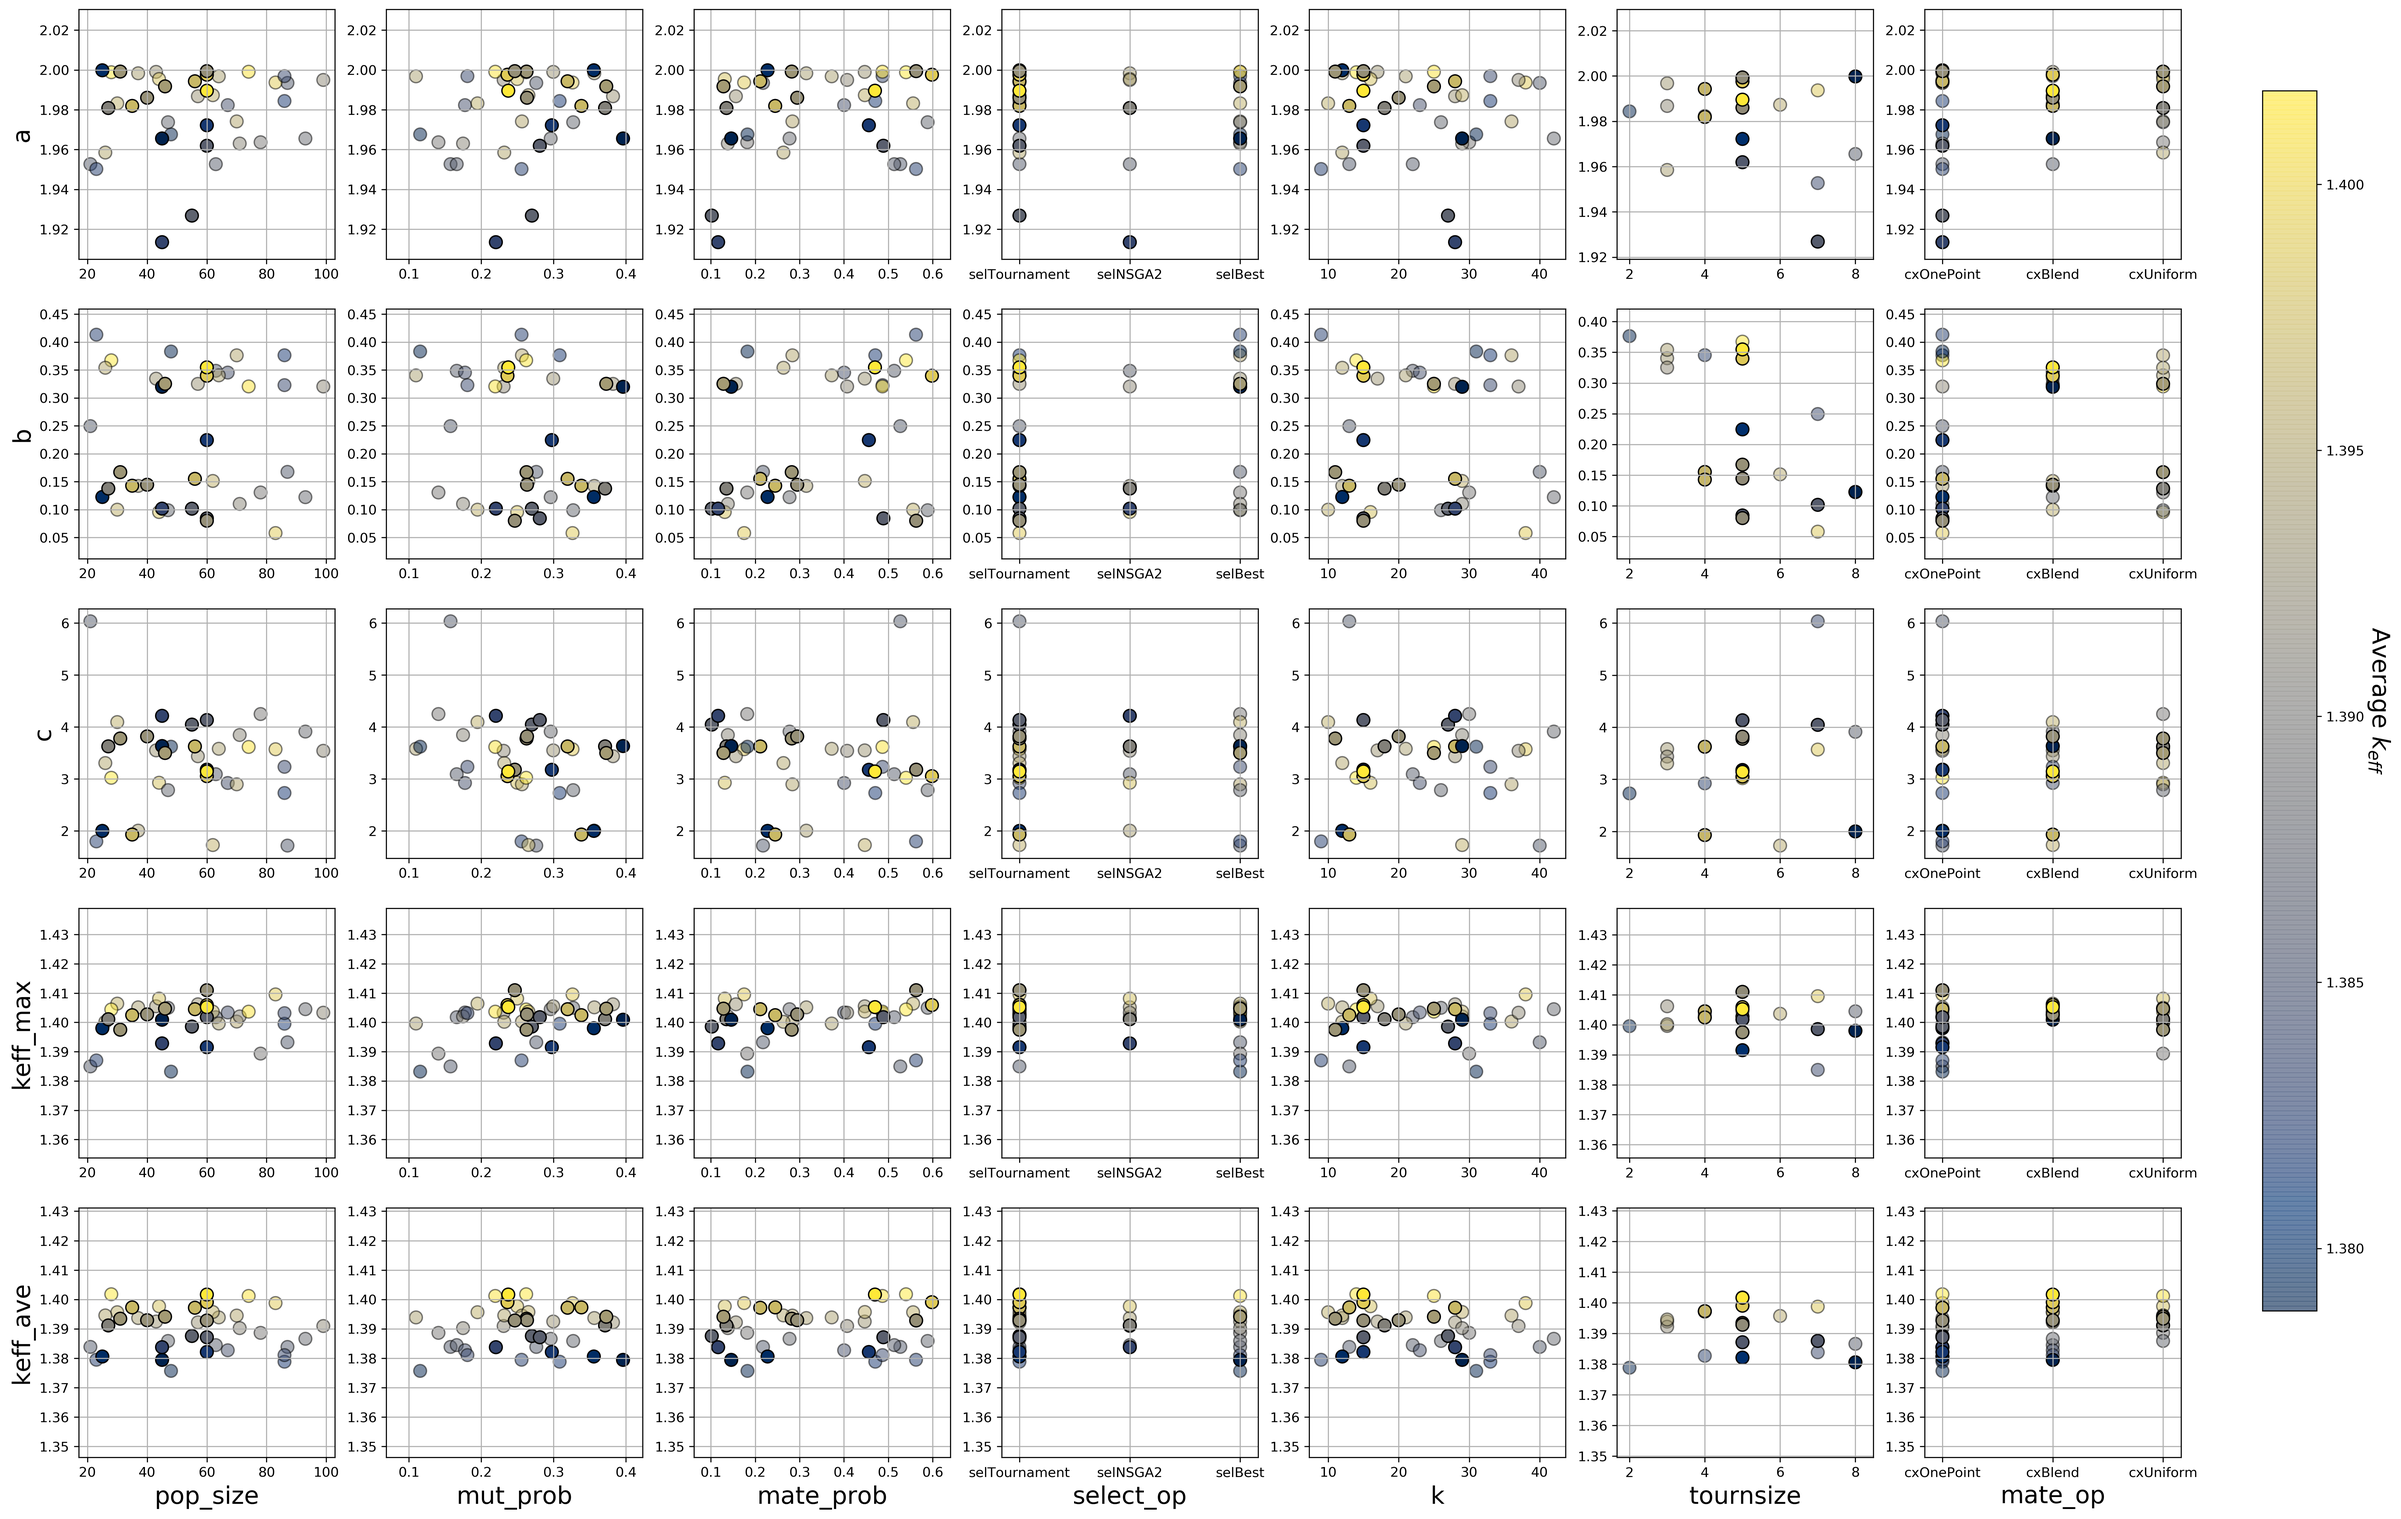
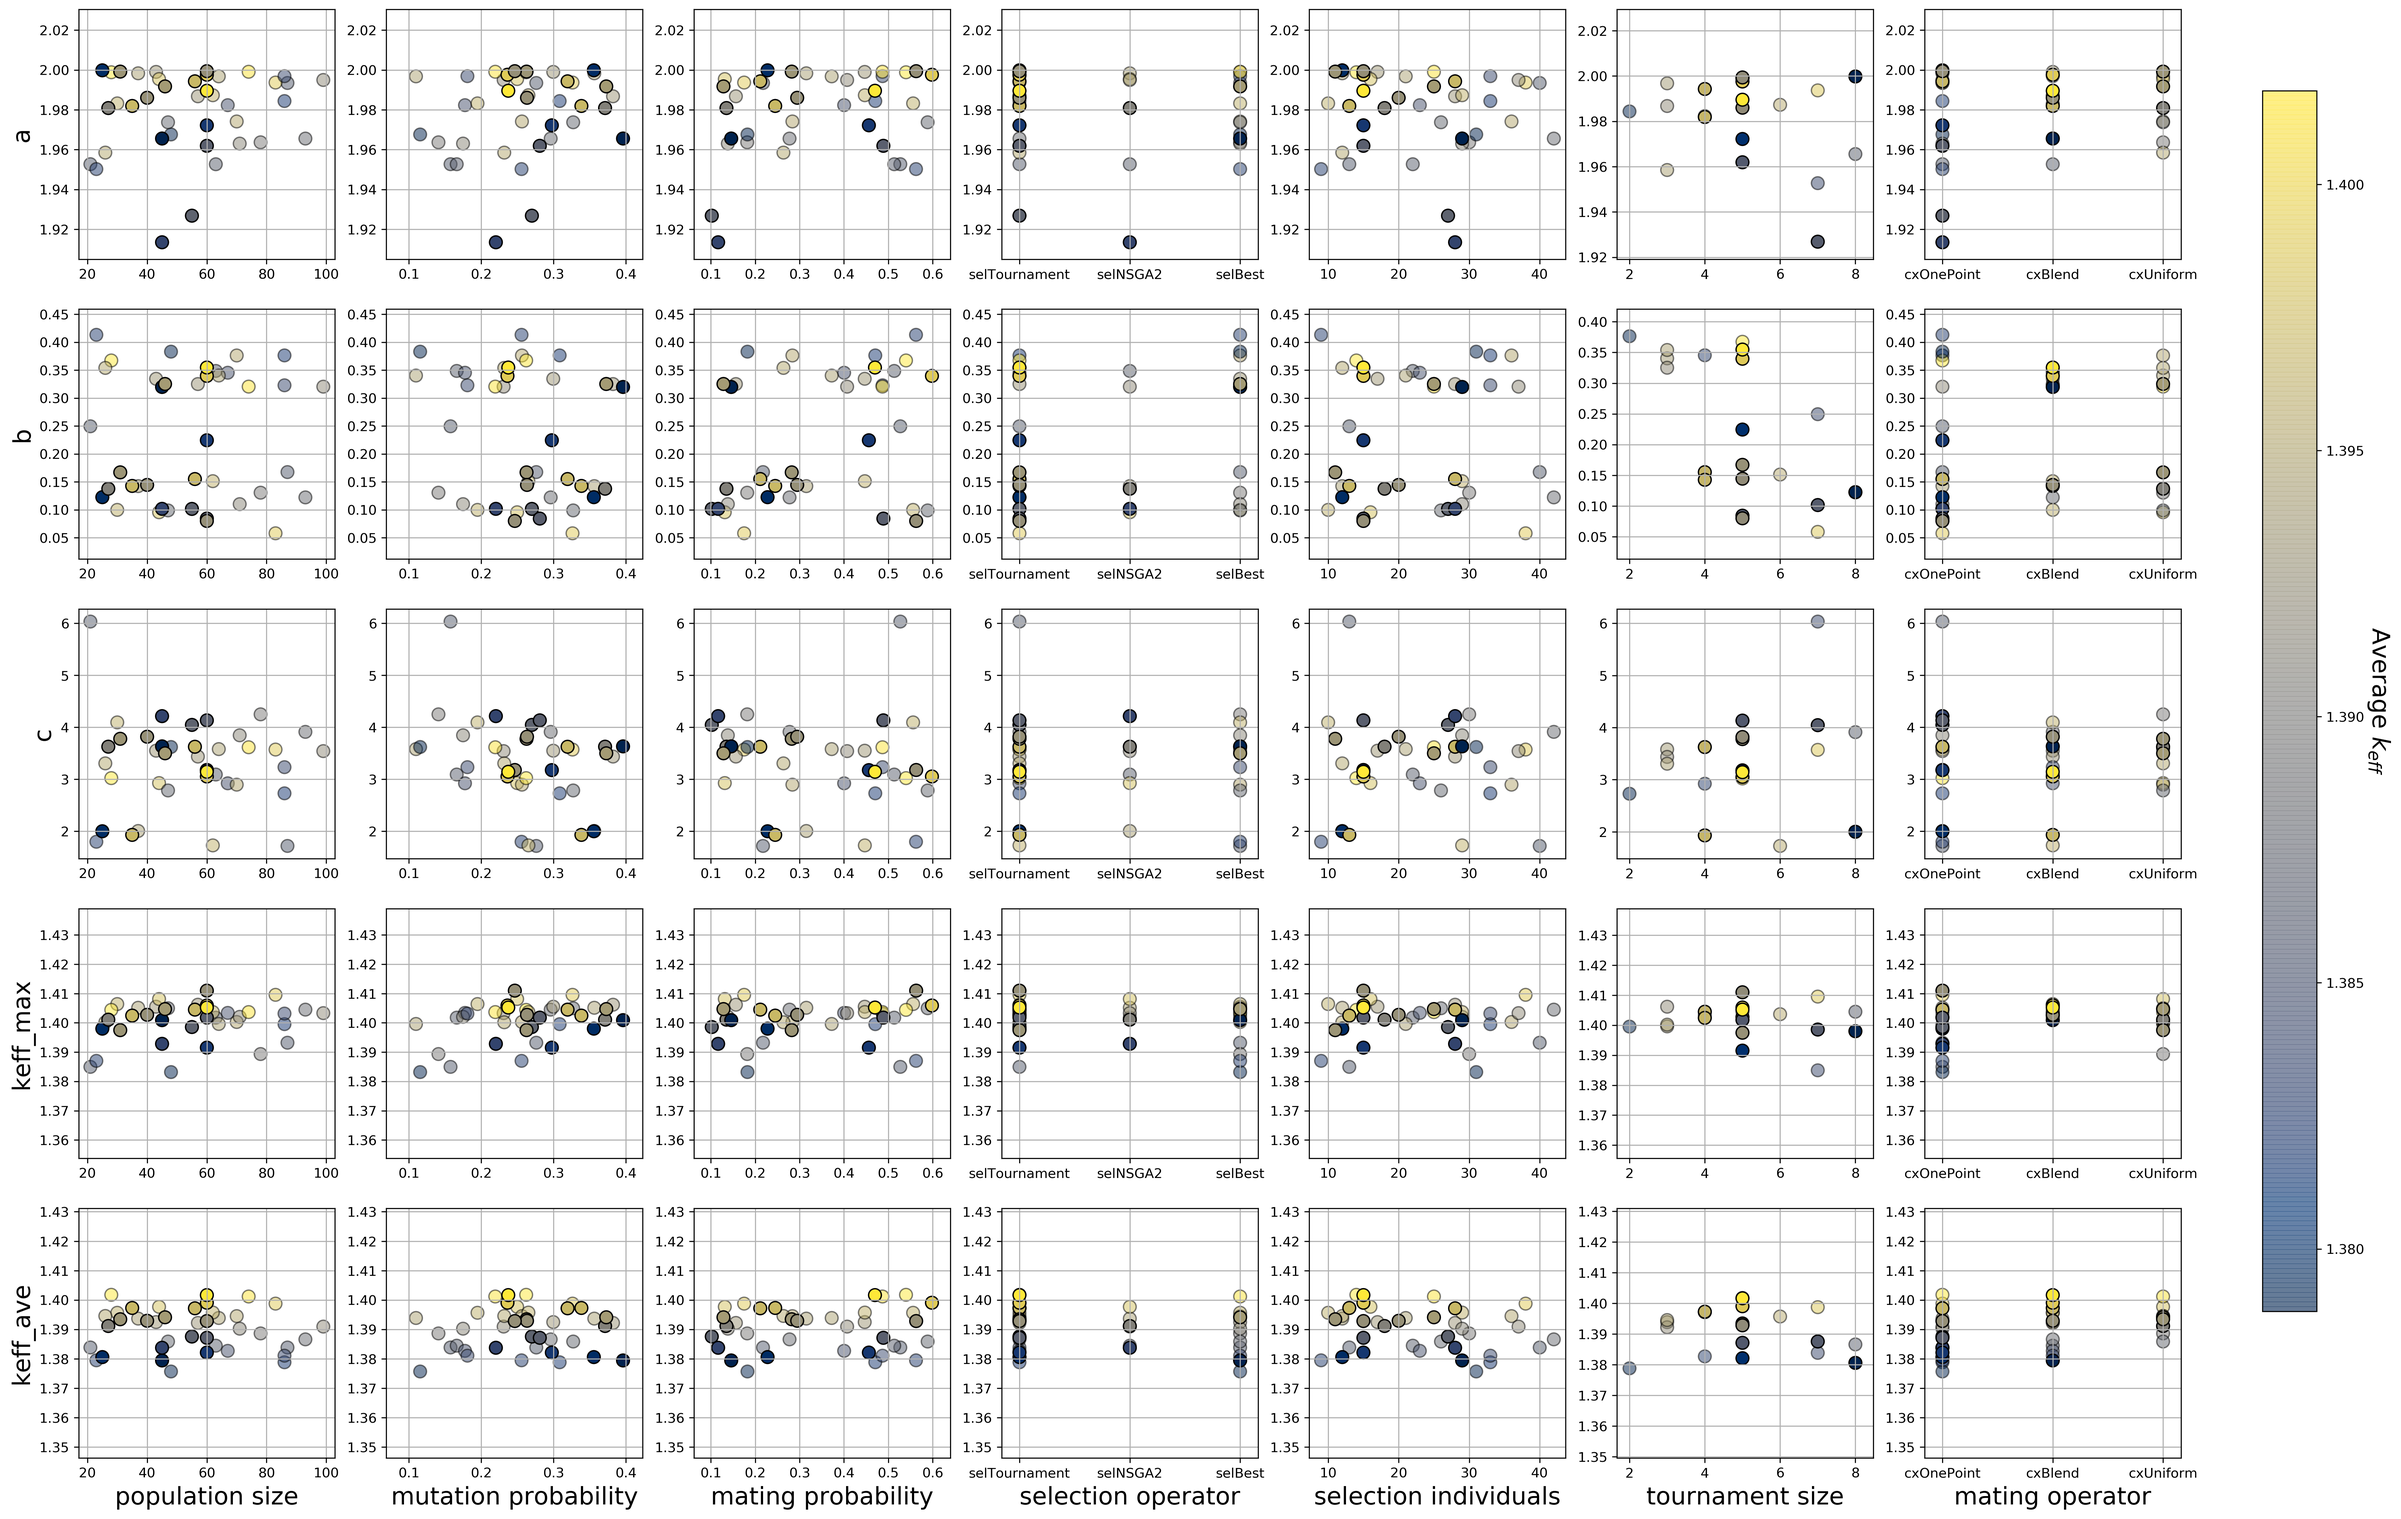
so far

diff --git a/docs/realm-demo.tex b/docs/realm-demo.tex
@@ -80,7 +80,7 @@ with packing fraction varying based on this sine distribution.
     \label{fig:triso_distribution}
 \end{figure}
 
-In REALM, a genetic algorithm varies the $a$, $b$ and $c$ variables to find a combination 
+In \gls{REALM}, a genetic algorithm varies the $a$, $b$ and $c$ variables to find a combination 
 that produces a packing fraction distribution that maximizes the $k_{eff}$ in 
 the slab. 
 The upper and lower bounds of $a$, $b$ and $c$ are: 
@@ -95,10 +95,12 @@ algorithm to explore various sine distributions.
 The OpenMC evaluator calculates $k_{eff}$. 
 Each OpenMC simulation is run with 80 active cycles, 20 inactive cycles, and 
 8000 particles to reach an uncertainty of approximately 130pcm. 
-Figure \ref{fig:realm-input-simple} shows the REALM input file for this 
+Figure \ref{fig:realm-input-simple} shows the \gls{REALM} input file for this 
 genetic algorithm optimization problem. 
-\texttt{ahtr\_slab\_openmc.py} is the template OpenMC script that accepts 
-$a$, $b$ and $c$ from REALM as described in Chapter \ref{chap:realm}. 
+\texttt{ahtr\_slab\_openmc.py} is the template OpenMC straightened \gls{AHTR} 
+slab script that accepts $a$, $b$ and $c$ from \gls{REALM}, calculates packing 
+fraction distribution and assigns packing fraction values to each fuel slice. 
+Subsequently, \gls{REALM} runs the templated OpenMC script to generate $k_{eff}$. 
 \begin{figure}[]
     \begin{minted}[
         frame=lines,
@@ -147,10 +149,10 @@ $a$, $b$ and $c$ from REALM as described in Chapter \ref{chap:realm}.
 \end{figure}
 
 \subsection{Hyperparameter Search}
-REALM's input file allows the user to define the genetic algorithm's 
+In \gls{REALM}'s input file, the user can define the genetic algorithm's 
 hyperparameters. 
 A good hyperparameter set is able to guide the optimization process by 
-balancing exploitation and exploration to find an optimal solution more quickly 
+balancing exploitation and exploration to find an optimal solution quickly 
 and accurately. 
 Finding a good set of hyperparameters requires a trial and error process. 
 
@@ -158,8 +160,8 @@ I performed the hyperparameter search with a coarse-to-fine random sampling sche
 whose advantages were previously discussed in Section \ref{sec:balance}.
 The hyperparameters varied include: population size, number of generations, 
 mutation probability, mating probability, selection operator, selection operator's 
-k value, selection operator's tournament size, mutation operator, and mating 
-operator.  
+number of individuals, selection operator's tournament size, mutation operator, 
+and mating operator.  
 I started with 25 coarse experiments and fine tuned the hyperparameters
 with 15 more experiments. 
 For each genetic algorithm experiment, I hold the number of OpenMC evaluations 
@@ -198,7 +200,7 @@ for random sampling of each hyperparameter.
 \end{table}
 
 The objective of the initial 25 coarse experiments is to narrow down the 
-hyperparameters to find a narrower set of optimal hyperparameter bounds that 
+hyperparameters to find a smaller set of optimal hyperparameter bounds that 
 produce higher average $k_{eff}$ values in each experiment's final generation. 
 Figure \ref{fig:hyperparameter_sens} shows the hyperparameters' plotted against 
 each other with a third color dimension of the average $k_{eff}$ value in each 
@@ -234,6 +236,18 @@ the \textit{Fine Search 1 Bounds}.
 From these results, I conducted a second fine search with 5 experiments 
 (35 to 39) with further tuned hyperparameter bounds as shown in Table 
 \ref{tab:hyperparameter_search}'s \textit{Fine Search 2 Bounds} column. 
+These new hyperparameter bounds were determined based on these reasoning: 
+\begin{itemize}
+    \item Mutation probability has larger $k_{eff ave}$ between 0.2 and 0.3.
+    \item I overlooked a peaking of $k_{eff ave}$ at mating probability between 
+    0.45 and 0.6 in the previous \textit{Fine Search 1}, thus shifted the bounds. 
+    \item The highest $k_{eff ave}$ occurred for \texttt{selTournament}. 
+    \item I narrowed down mating operator options to \texttt{cxBlend} and 
+    \texttt{cxOnePoint} since they had higher $k_{eff ave}$. 
+    \item I decided to select an arbitrary number for population size, 
+    selection individuals and tournament size since they did not appear to have 
+    any correlation with $k_{eff ave}$. 
+\end{itemize}
 Figure \ref{fig:input_hyperparameters_sens} shows the relationship between 
 hyperparameter values and $a$,$b$,$c$ input parameters, final generation 
 $k_{eff max}$, and final generation $k_{eff ave}$. 
@@ -249,13 +263,19 @@ experiments' scatter point are opaque.
     scatter point's color.}
     \label{fig:input_hyperparameters_sens}
 \end{figure}
+In Figure \ref{fig:input_hyperparameters_sens}, on average, the fine experiments 
+(opaque scatter points) have higher $k_{eff ave}$ which indicates that 
+hyperparameter search process met its objective of finding hyperparameter 
+bounds that enable quicker and more accurate optimization. 
 
 Table \ref{tab:topfive} shows the hyperparameters for the five experiments 
 with the highest final generation $k_{eff ave}$.
 \begin{table}[]
     \centering
     \onehalfspacing
-    \caption{Input and Output Parameters}
+    \caption{Input Parameters, $k_{eff}$ results, and hyperparameter values for 
+    the five hyperparameter search experiments with the highest final generation 
+    $k_{eff ave}$.}
 	\label{tab:topfive}
     \footnotesize
     \makebox[\textwidth][c]{\begin{tabular}{p{3cm}p{3cm}p{3cm}p{3cm}p{3cm}p{3cm}}
@@ -295,9 +315,19 @@ distribution with peak packing fraction of 0.31 at side of the slab.
 This demonstrates the robustness of the genetic algorithms to find similar solutions with 
 different hyperparameters. 
 
+These simulations are run on the BlueWaters supercomputer \cite{ncsa_about_2017}. 
+In each \gls{REALM} simulation, a population size number of individual OpenMC 
+simulations are run at each generation. 
+Each OpenMC simulation takes approximately 13 minutes to run on a single BlueWaters 
+XE node. 
+With approximately 600 OpenMC evaluations per \gls{REALM} simulation, the total 
+\gls{REALM} simulation time is about 130 BlueWaters node-hours. 
+The hyperparameter search ran 40 REALM simulations, thus using approximately
+5200 node-hours.
+
 \subsection{Results for best hyperparameter set}
 I define the best-performing hyperparameter set as the experiment that produces 
-the highest final generation $k_{eff ave}$. 
+the highest $k_{eff ave}$ in its final generation. 
 The best performing set of hyperparameters are from the final 
 \textit{Fine Search 2} and is experiment 39 in Table \ref{tab:topfive}
 with centre-peaking packing fraction distribution with $k_{eff max} = 1.40519$. 
@@ -331,21 +361,19 @@ and packing fraction distribution through each generation of the best performing
         \caption{Maximum $k_{eff}$'s packing fraction distribution evolution.}
         \label{fig:pf_39}
     \end{subfigure}
-    \caption{ Results for each generation for REALM's genetic algorithm optimization 
-    of the Straightened \acrfull{AHTR} Fuel Slab. The REALM simulation used 
+    \caption{ Results for each generation for \gls{REALM}'s genetic algorithm optimization 
+    of the Straightened \acrfull{AHTR} Fuel Slab. The \gls{REALM} simulation used 
     the 39$^{th}$ experiment's hyperparameter set.}
     \label{fig:39}
 \end{figure}
-The maximum $k_{eff}$ converged quickly by generation 1, however, this is not 
+The $k_{eff max}$ converged quickly by generation 1, however, this is not 
 usually the case. 
 The genetic algorithm optimization process is stochastic, and so there is always 
 the possibility that the algorithm randomly samples a set of input parameters
 that maximizes the objective function early on in the genetic algorithm 
 optimization process. 
-The average $k_{eff}$ demonstrates how the average population of individuals converge 
+The $k_{eff ave}$ demonstrates how the average population of individuals converge 
 towards a higher $k_{eff}$ with improvements from each generation. 
-I used the BlueWaters supercomputer to run REALM. 
-
 To demonstrate how the genetic algorithm optimization process usually goes, 
 Figures \ref{fig:keff_conv_15} and \ref{fig:pf_15} show the evolution of $k_{eff}$ 
 and packing fraction distribution through each generation of the second best 
@@ -364,8 +392,8 @@ towards a higher $k_{eff}$ with improvements from each generation.
         \caption{Maximum $k_{eff}$'s packing fraction distribution evolution.}
         \label{fig:pf_15}
     \end{subfigure}
-    \caption{ Results for each generation for REALM's genetic algorithm optimization 
-    of the Straightened \acrfull{AHTR} Fuel Slab. The REALM simulation used 
+    \caption{ Results for each generation for \gls{REALM}'s genetic algorithm optimization 
+    of the Straightened \acrfull{AHTR} Fuel Slab. The \gls{REALM} simulation used 
     the 15$^{th}$ experiment's hyperparameter set.}
     \label{fig:15}
 \end{figure}
@@ -388,11 +416,11 @@ the fast neutrons resulting in higher thermal flux, leading to more
 fission occurring and a higher $k_{eff}$. 
 
 Another observation is that TRISO particles peak in the centre of the slab, 
-proving that when only neutronics $k_{eff}$ is the objective function, the 
-fuel tends to want to culminate in the middle. 
-However, this is not ideal for heat transfer and ensuring flat power across 
-the core. 
-
+proving that when the optimization problem focuses purely on the neutronics 
+of the slab by maximizing $k_{eff}$, the fuel tends to want to culminate in the 
+middle. 
+However, this is not ideal for other important reactor core qualities such as 
+good heat transfer and ensuring flat power across the core. 
 With these shortcomings in mind, I proceed to the future work chapter to discuss 
 the types of simulations that will be run to optimize for these other parameters. 
 
@@ -403,17 +431,17 @@ the types of simulations that will be run to optimize for these other parameters
 % try the whole 1/3 diamond fuel elemt 
 
 \section{Summary}
-This chapter demonstrated applying \gls{REALM} to maximize $k_{eff}$ in a 
-straightened \acrfull{AHTR} fuel slab through variation in the \gls{TRISO} 
+This chapter demonstrated successfully applying \gls{REALM} to maximize $k_{eff}$ 
+in a straightened \acrfull{AHTR} fuel slab through varying the \gls{TRISO} 
 particle packing fraction distribution. 
 I began by conducting a coarse-to-fine random sampling hyperparameter search to 
 find the genetic algorithm hyperparameters that worked best for this optimization 
 problem.
 Experiment 39 performed the best with a hyperparameter set that produced the 
 highest final generation average $k_{eff}$ of 1.40165. 
-The \gls{TRISO} particle packing fraction that produced the final generation's 
-maximum $k_{eff}$ of 1.40519 peaks at the centre of the slab with a packing 
-fraction distribution of $PF(x)=1.989\ sin(0.54x+3.143)$. 
+The \gls{TRISO} particle packing fraction distribution that produced the final 
+generation's maximum $k_{eff}$ of 1.40519 peaks at the centre of the slab with 
+a packing fraction distribution of $PF(x)=1.989\ sin(0.54x+3.143)$. 
 This problem demonstrated how effective and robust genetic algorithms are for 
 optimizing reactor parameters for an objective function. 
 This demonstration problem had a single objective function which was to maximize 
@@ -421,4 +449,4 @@ $k_{eff}$.
 However, there are many other objectives that should be considered such as 
 maximizing heat transfer, and minimizing power peaking in the core. 
 Thus, in the next chapter, I will propose future simulations for optimizing
-all these objective functions.
+for these objective functions simultaneously.
